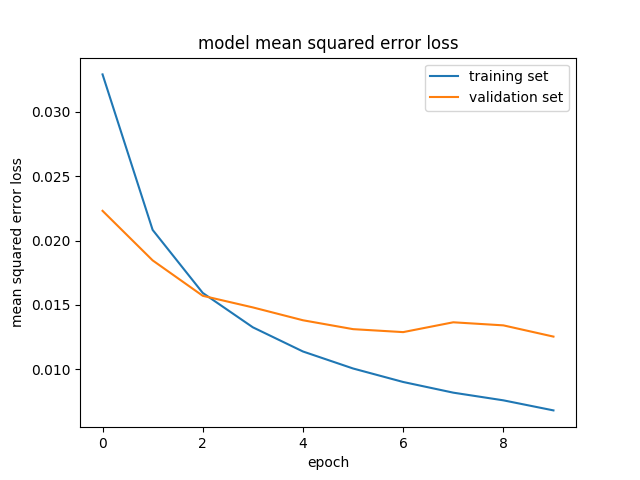
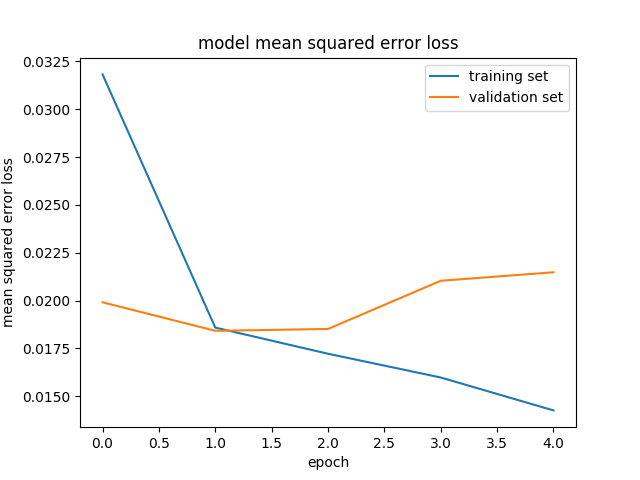
Minor fix

diff --git a/model.py b/model.py
@@ -6,7 +6,8 @@ from sklearn.model_selection import train_test_split
 
 EPOCHS = 30
 BATCH_SIZE = 32
-DATA_TYPE = ['track1_normal1', 'track1_normal2', 'track1_backward', 'track2_normal1', 'track2_backward']
+#DATA_TYPE = ['track1_normal1', 'track1_normal2', 'track1_backward', 'track2_normal1', 'track2_backward']
+DATA_TYPE = ['track1_normal1', 'track1_normal2', 'track1_backward']
 MODEL = 'LeNet'
 CORRECTION = 0.2
 
@@ -70,6 +71,7 @@ from keras.models import Sequential
 from keras.layers import Flatten, Dense, Lambda, Cropping2D
 from keras.layers.convolutional import Conv2D
 from keras.layers.pooling import MaxPooling2D
+from keras.callbacks import EarlyStopping
 from keras import backend as K
 
 model = Sequential()
@@ -103,9 +105,12 @@ history_object = model.fit_generator(
         steps_per_epoch = len(train_samples) // BATCH_SIZE + 1, 
         validation_data = validation_generator, 
         validation_steps = len(validation_samples) // BATCH_SIZE + 1,
-        epochs=EPOCHS)
+        epochs=EPOCHS,
+        callbacks=[EarlyStopping(monitor='val_loss', min_delta=0, patience=2, verbose=1, mode='auto')])
 
-model.save('model'+MODEL+'.h5')
+model_filename = 'model_' + MODEL + '.h5'
+model.save(model_filename)
+print('Model saved to ' + model_filename)
 
 K.clear_session()
 
